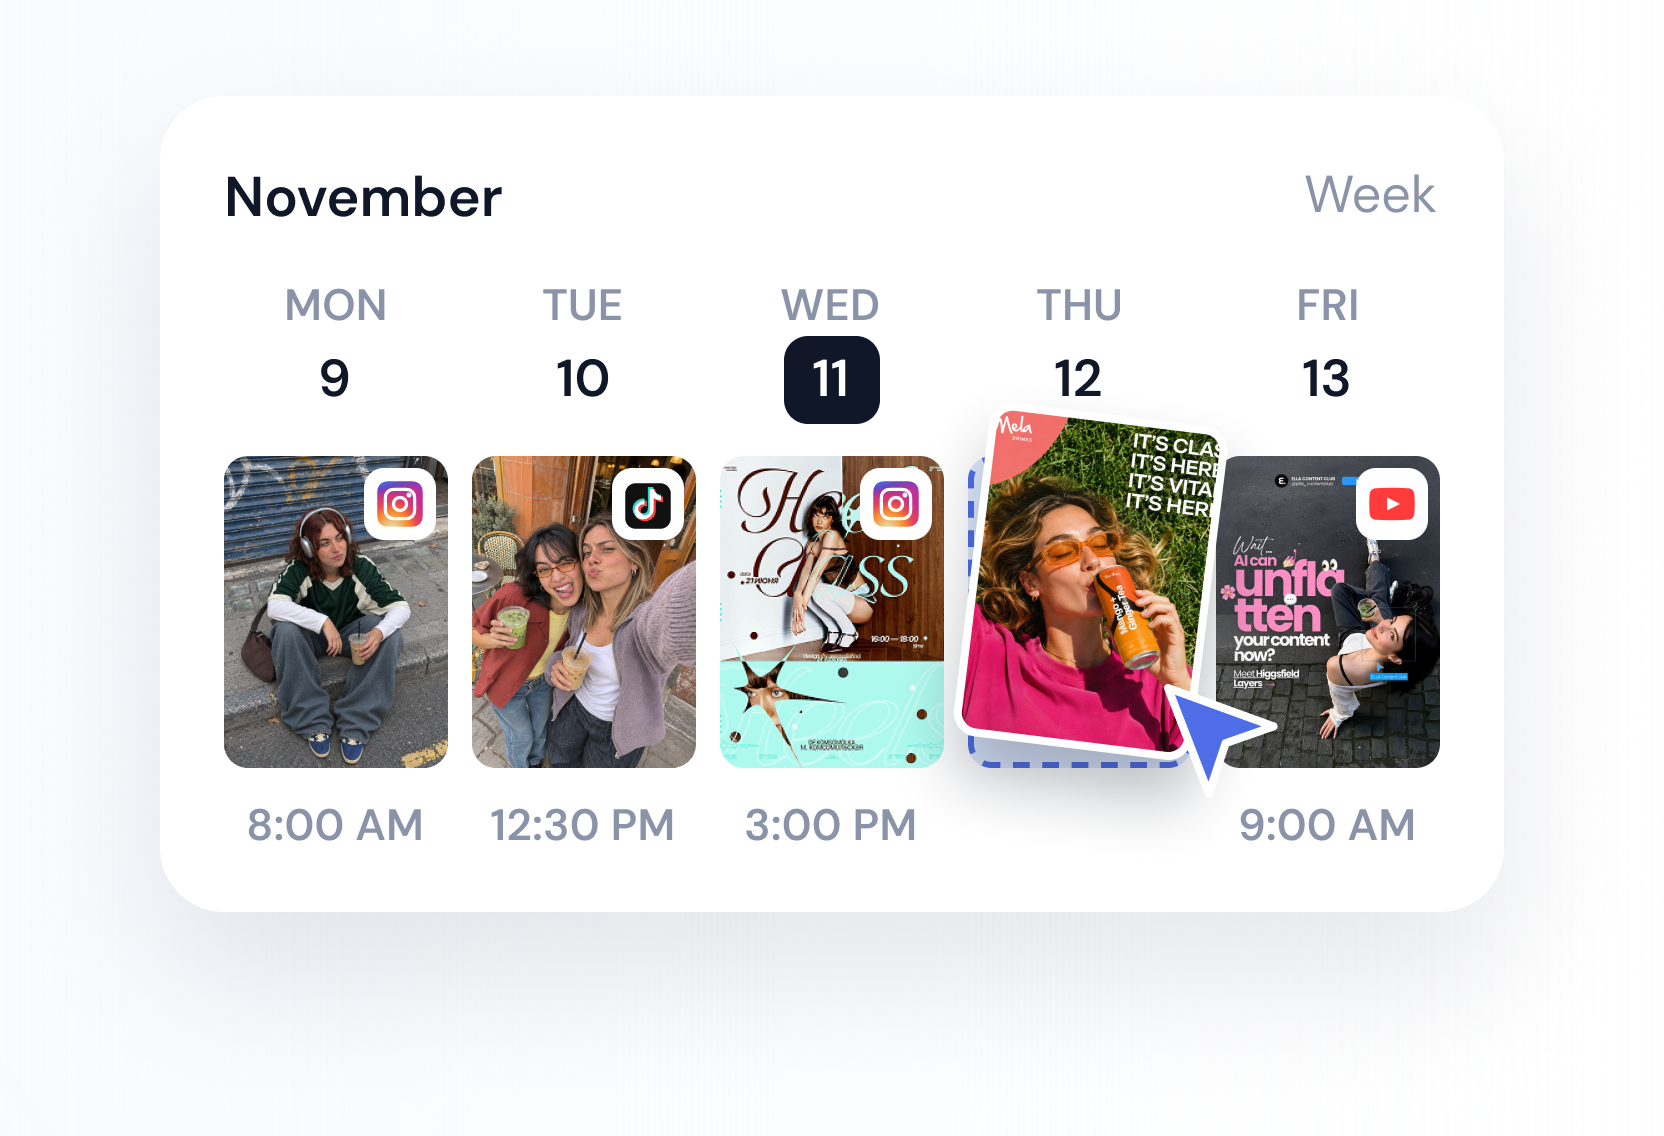
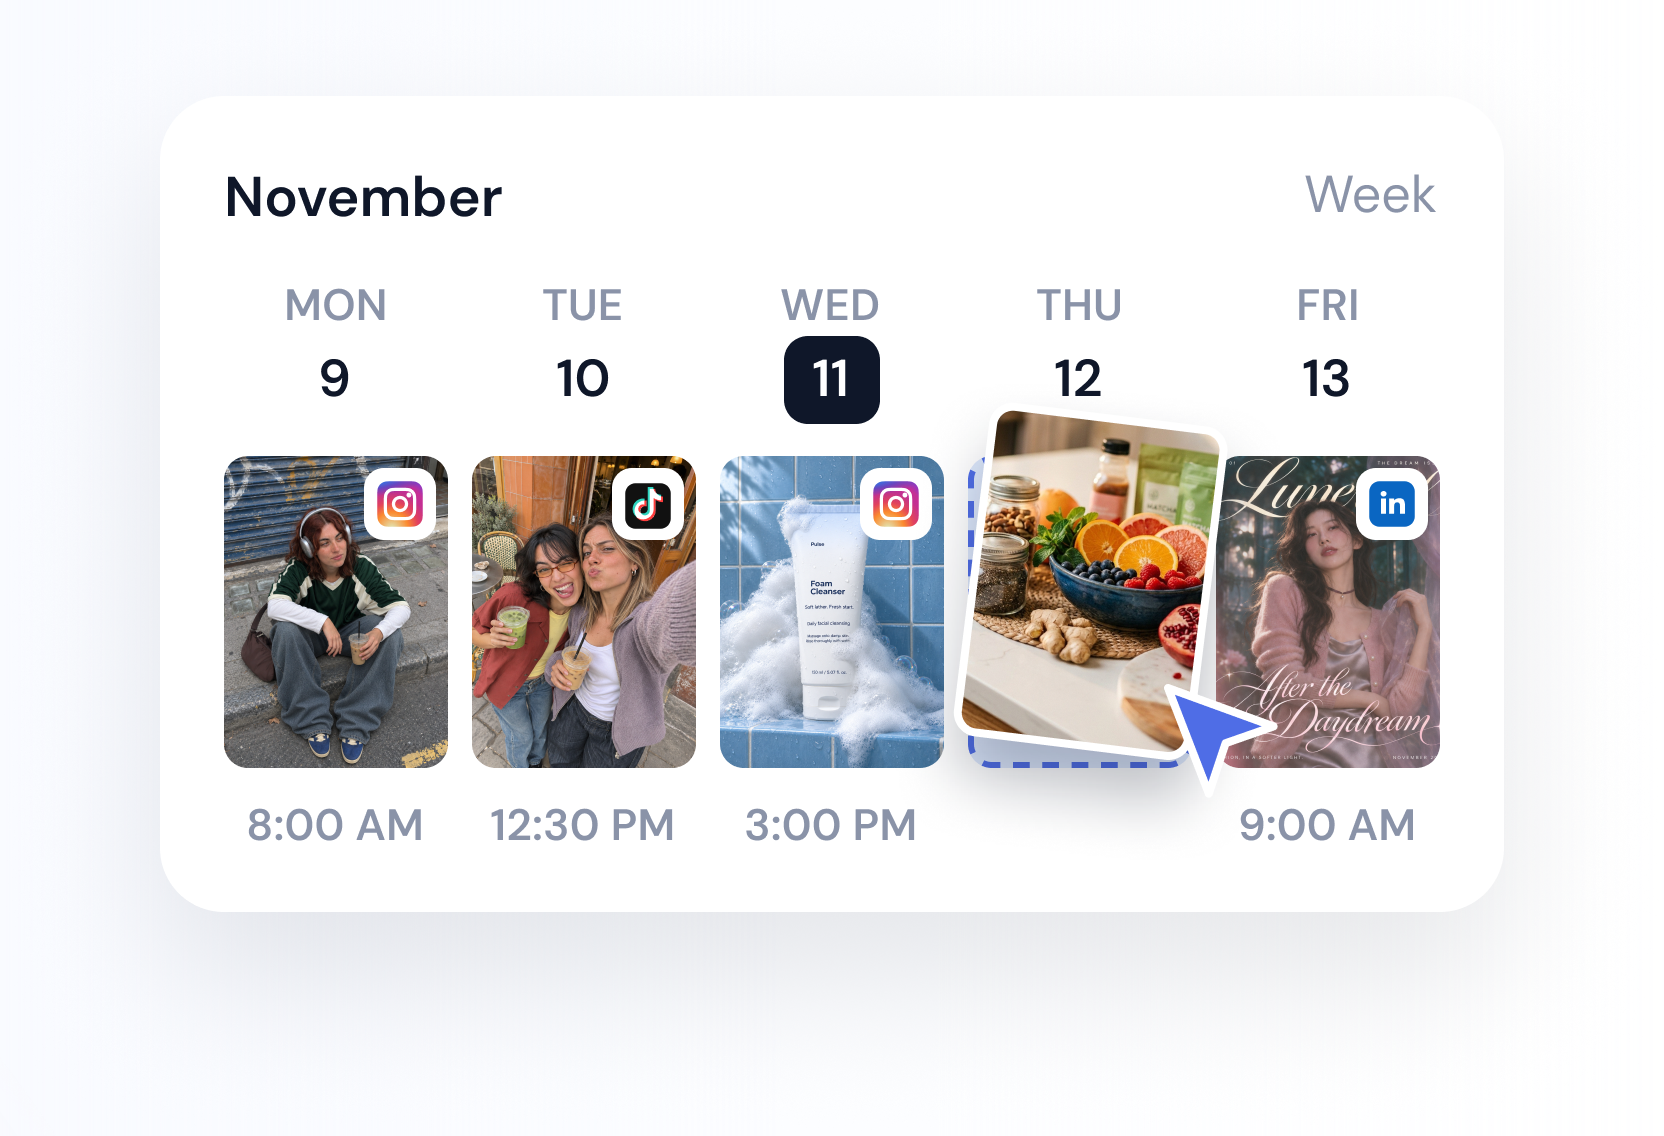
pulse landing: Schedule and publish row uses the dailygrove panel from Figma 649:9018; image URLs get a cache tag

Changed region(s): [[0.4062, 0.3389, 0.875, 0.6778]]

diff --git a/prototypes/ai-social-media/pulse-landing/index.html b/prototypes/ai-social-media/pulse-landing/index.html
@@ -7,7 +7,7 @@
 <link rel="preconnect" href="https://fonts.googleapis.com">
 <link rel="preconnect" href="https://fonts.gstatic.com" crossorigin>
 <link href="https://fonts.googleapis.com/css2?family=DM+Sans:opsz,wght@9..40,300..700&display=swap" rel="stylesheet">
-<link rel="stylesheet" href="style.css?v=20261113b">
+<link rel="stylesheet" href="style.css?v=20261113c">
 </head>
 <body>
 <div class="progress" aria-hidden="true"><i id="progress"></i></div>
@@ -161,9 +161,9 @@
 
       <article class="row flip">
         <div class="panel left r panel-in" data-tilt>
-          <div class="ly" data-depth="14" style="left:32px;top:49px;width:380px;height:534px"><div class="r left" style="--d:.15s"><img class="float a" src="assets/f4-post.png" alt=""></div></div>
-          <div class="ly" data-depth="26" style="left:355px;top:66px;width:416px;height:284px"><div class="r right" style="--d:.35s"><img class="float b" src="assets/f4-calendar.png" alt=""></div></div>
-          <div class="ly" data-depth="34" style="left:355px;top:294px;width:416px;height:244px"><div class="r up" style="--d:.55s"><img class="float c" src="assets/f4-publish.png" alt=""></div></div>
+          <div class="ly" data-depth="14" style="left:32px;top:49px;width:380px;height:534px"><div class="r left" style="--d:.15s"><img class="float a" src="assets/f4-post.png?v=20261113c" alt=""></div></div>
+          <div class="ly" data-depth="26" style="left:355px;top:66px;width:416px;height:284px"><div class="r right" style="--d:.35s"><img class="float b" src="assets/f4-calendar.png?v=20261113c" alt=""></div></div>
+          <div class="ly" data-depth="34" style="left:355px;top:294px;width:416px;height:244px"><div class="r up" style="--d:.55s"><img class="float c" src="assets/f4-publish.png?v=20261113c" alt=""></div></div>
         </div>
         <div class="copy">
           <small class="r up">Schedule and publish</small>
@@ -240,8 +240,8 @@
     <div class="f-col r up" style="--d:.24s"><h5>Company</h5><a href="#">About Formee</a><a href="#">Contact</a><a href="terms.html">Terms of Use</a><a href="privacy.html">Privacy</a></div>
   </footer>
 </div>
-<script src="main.js?v=20261113b"></script>
-<script src="coverflow.js?v=20261113b"></script>
+<script src="main.js?v=20261113c"></script>
+<script src="coverflow.js?v=20261113c"></script>
 <!-- B (CTA hero) is hidden for now; restore this line to bring back the A/B switch. <script src="ab-switch.js"></script> -->
 </body>
 </html>

diff --git a/prototypes/ai-social-media/pulse-landing/index-b.html b/prototypes/ai-social-media/pulse-landing/index-b.html
@@ -7,7 +7,7 @@
 <link rel="preconnect" href="https://fonts.googleapis.com">
 <link rel="preconnect" href="https://fonts.gstatic.com" crossorigin>
 <link href="https://fonts.googleapis.com/css2?family=DM+Sans:opsz,wght@9..40,300..700&display=swap" rel="stylesheet">
-<link rel="stylesheet" href="style.css?v=20261113b">
+<link rel="stylesheet" href="style.css?v=20261113c">
 <style>
 /* B · CTA hero (Figma 436:349645): prompt box removed, type scale unchanged */
 .hero{gap:0}
@@ -151,9 +151,9 @@
 
       <article class="row flip">
         <div class="panel left r panel-in" data-tilt>
-          <div class="ly" data-depth="14" style="left:32px;top:49px;width:380px;height:534px"><div class="r left" style="--d:.15s"><img class="float a" src="assets/f4-post.png" alt=""></div></div>
-          <div class="ly" data-depth="26" style="left:355px;top:66px;width:416px;height:284px"><div class="r right" style="--d:.35s"><img class="float b" src="assets/f4-calendar.png" alt=""></div></div>
-          <div class="ly" data-depth="34" style="left:355px;top:294px;width:416px;height:244px"><div class="r up" style="--d:.55s"><img class="float c" src="assets/f4-publish.png" alt=""></div></div>
+          <div class="ly" data-depth="14" style="left:32px;top:49px;width:380px;height:534px"><div class="r left" style="--d:.15s"><img class="float a" src="assets/f4-post.png?v=20261113c" alt=""></div></div>
+          <div class="ly" data-depth="26" style="left:355px;top:66px;width:416px;height:284px"><div class="r right" style="--d:.35s"><img class="float b" src="assets/f4-calendar.png?v=20261113c" alt=""></div></div>
+          <div class="ly" data-depth="34" style="left:355px;top:294px;width:416px;height:244px"><div class="r up" style="--d:.55s"><img class="float c" src="assets/f4-publish.png?v=20261113c" alt=""></div></div>
         </div>
         <div class="copy">
           <small class="r up">Schedule and publish</small>
@@ -231,7 +231,7 @@
     <div class="f-col r up" style="--d:.24s"><h5>Company</h5><a href="#">About Formee</a><a href="#">Contact</a><a href="terms.html">Terms of Use</a><a href="privacy.html">Privacy</a></div>
   </footer>
 </div>
-<script src="main.js?v=20261113b"></script>
+<script src="main.js?v=20261113c"></script>
 <script src="ab-switch.js"></script>
 </body>
 </html>

diff --git a/prototypes/ai-social-media/pulse-landing/pricing.html b/prototypes/ai-social-media/pulse-landing/pricing.html
@@ -7,7 +7,7 @@
 <link rel="preconnect" href="https://fonts.googleapis.com">
 <link rel="preconnect" href="https://fonts.gstatic.com" crossorigin>
 <link href="https://fonts.googleapis.com/css2?family=DM+Sans:opsz,wght@9..40,300..700&display=swap" rel="stylesheet">
-<link rel="stylesheet" href="style.css?v=20261113b">
+<link rel="stylesheet" href="style.css?v=20261113c">
 <link rel="stylesheet" href="pages.css">
 </head>
 <body>

diff --git a/prototypes/ai-social-media/pulse-landing/privacy.html b/prototypes/ai-social-media/pulse-landing/privacy.html
@@ -7,7 +7,7 @@
 <link rel="preconnect" href="https://fonts.googleapis.com">
 <link rel="preconnect" href="https://fonts.gstatic.com" crossorigin>
 <link href="https://fonts.googleapis.com/css2?family=DM+Sans:opsz,wght@9..40,300..700&display=swap" rel="stylesheet">
-<link rel="stylesheet" href="style.css?v=20261113b">
+<link rel="stylesheet" href="style.css?v=20261113c">
 <link rel="stylesheet" href="pages.css">
 </head>
 <body>

diff --git a/prototypes/ai-social-media/pulse-landing/terms.html b/prototypes/ai-social-media/pulse-landing/terms.html
@@ -7,7 +7,7 @@
 <link rel="preconnect" href="https://fonts.googleapis.com">
 <link rel="preconnect" href="https://fonts.gstatic.com" crossorigin>
 <link href="https://fonts.googleapis.com/css2?family=DM+Sans:opsz,wght@9..40,300..700&display=swap" rel="stylesheet">
-<link rel="stylesheet" href="style.css?v=20261113b">
+<link rel="stylesheet" href="style.css?v=20261113c">
 <link rel="stylesheet" href="pages.css">
 </head>
 <body>

diff --git a/prototypes/ai-social-media/pulse-landing/main.js b/prototypes/ai-social-media/pulse-landing/main.js
@@ -50,7 +50,7 @@
     'f4-publish': [24, 40, 56, 40, '16px', S1],
   };
   $$('.panel img').forEach(img => {
-    const key = img.getAttribute('src').split('/').pop().replace('.png', '');
+    const key = img.getAttribute('src').split('/').pop().split('?')[0].replace('.png', '');
     const c = crops[key];
     if (!c) return;
     img.style.clipPath = `inset(${c[0]}px ${c[1]}px ${c[2]}px ${c[3]}px round ${c[4]})`;
